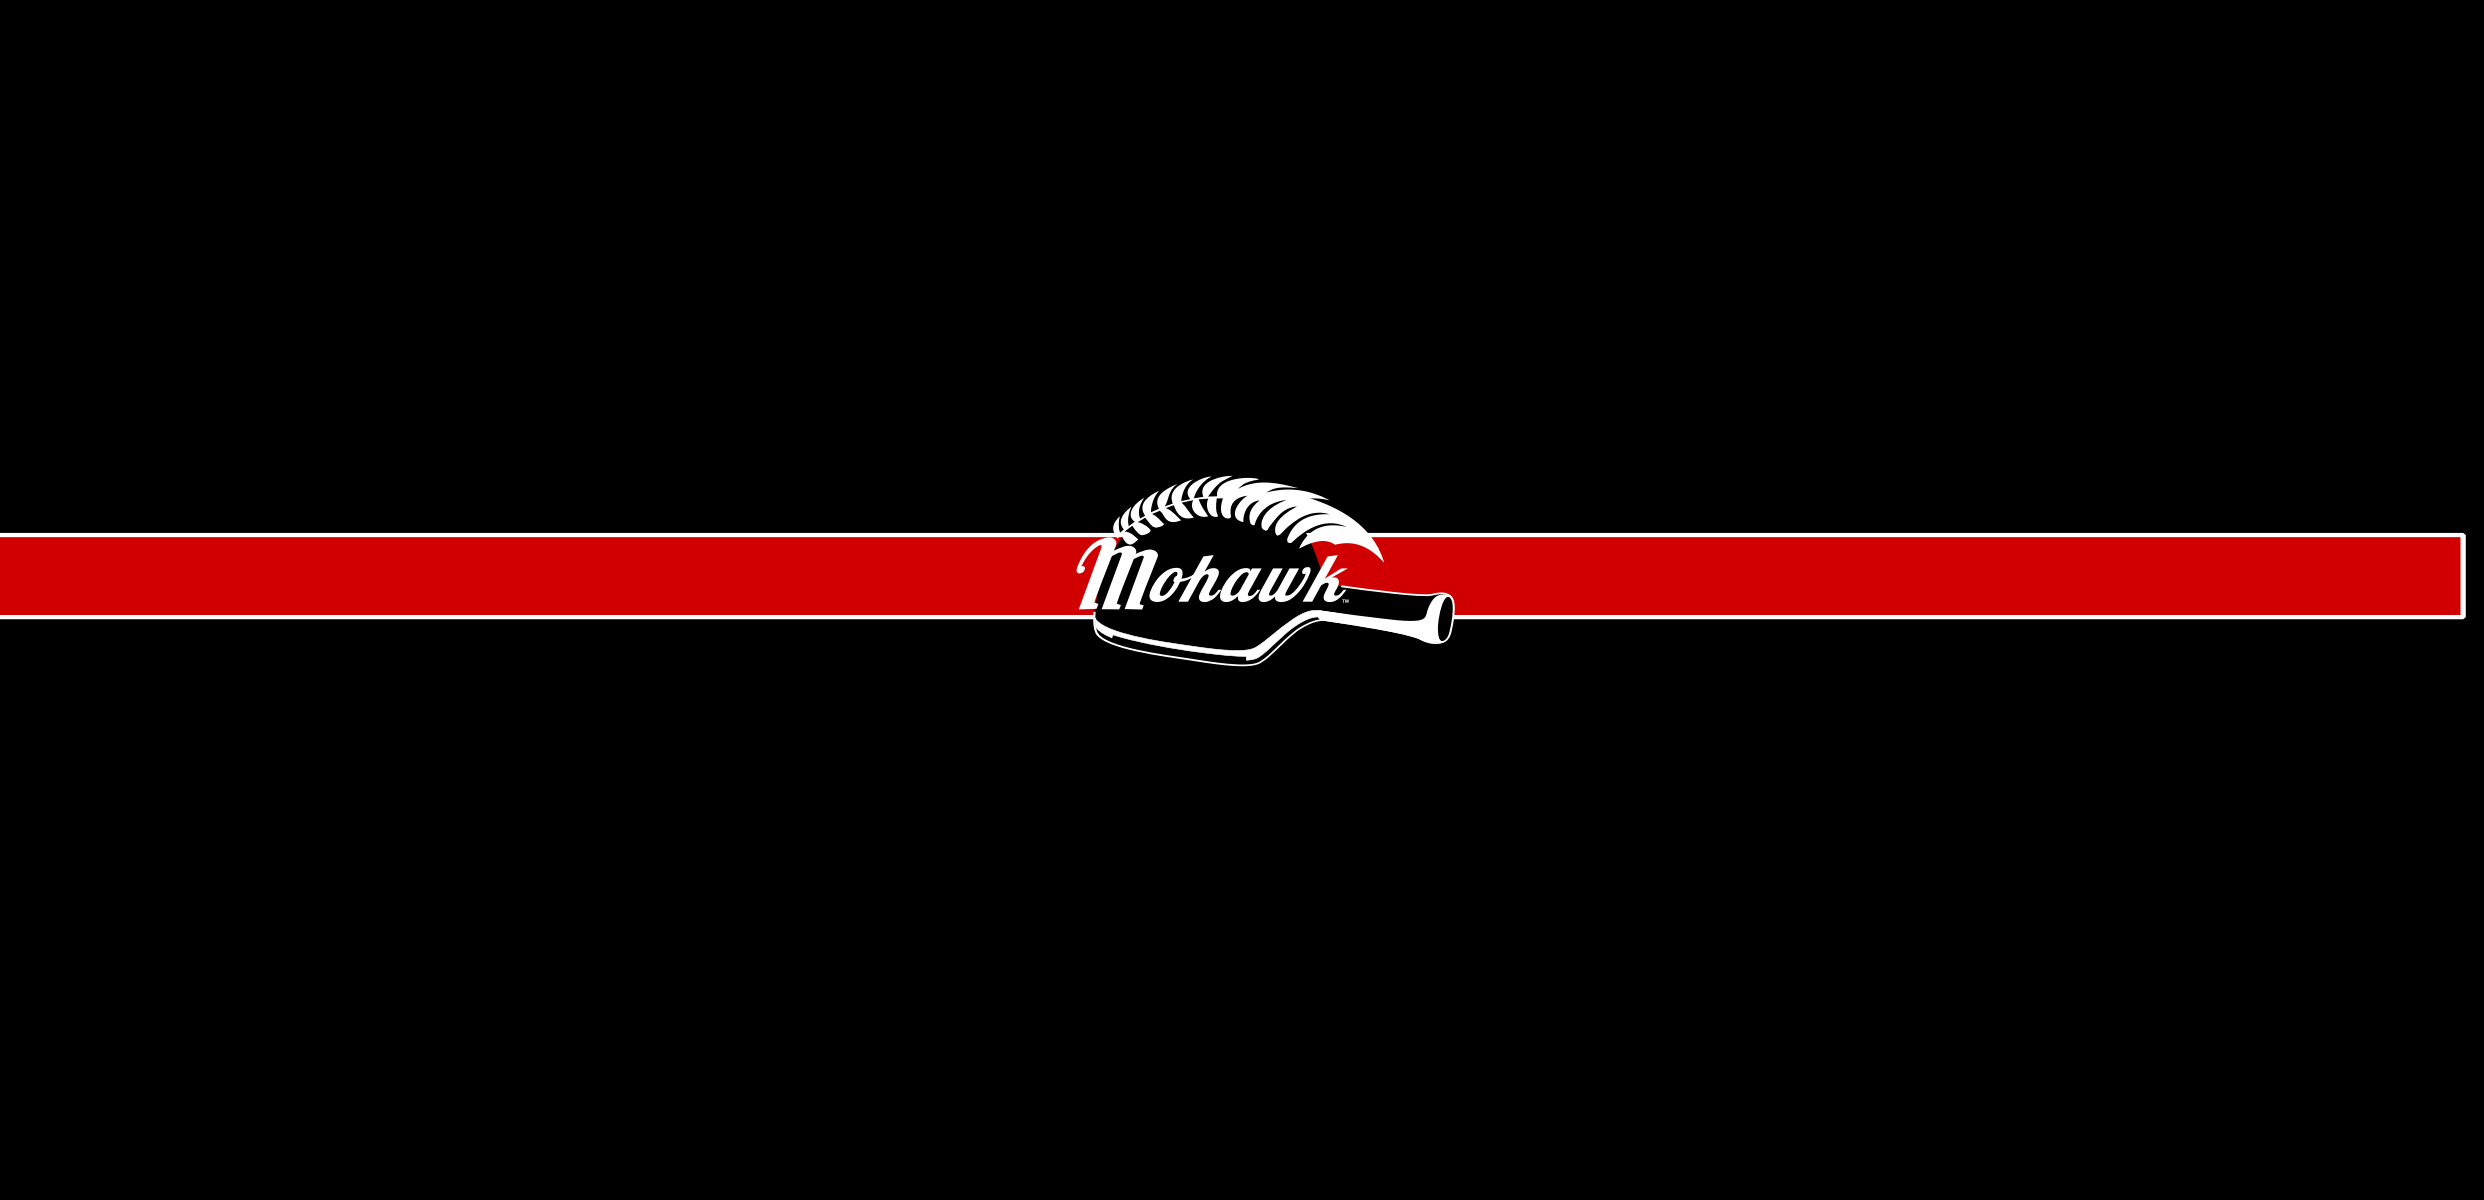
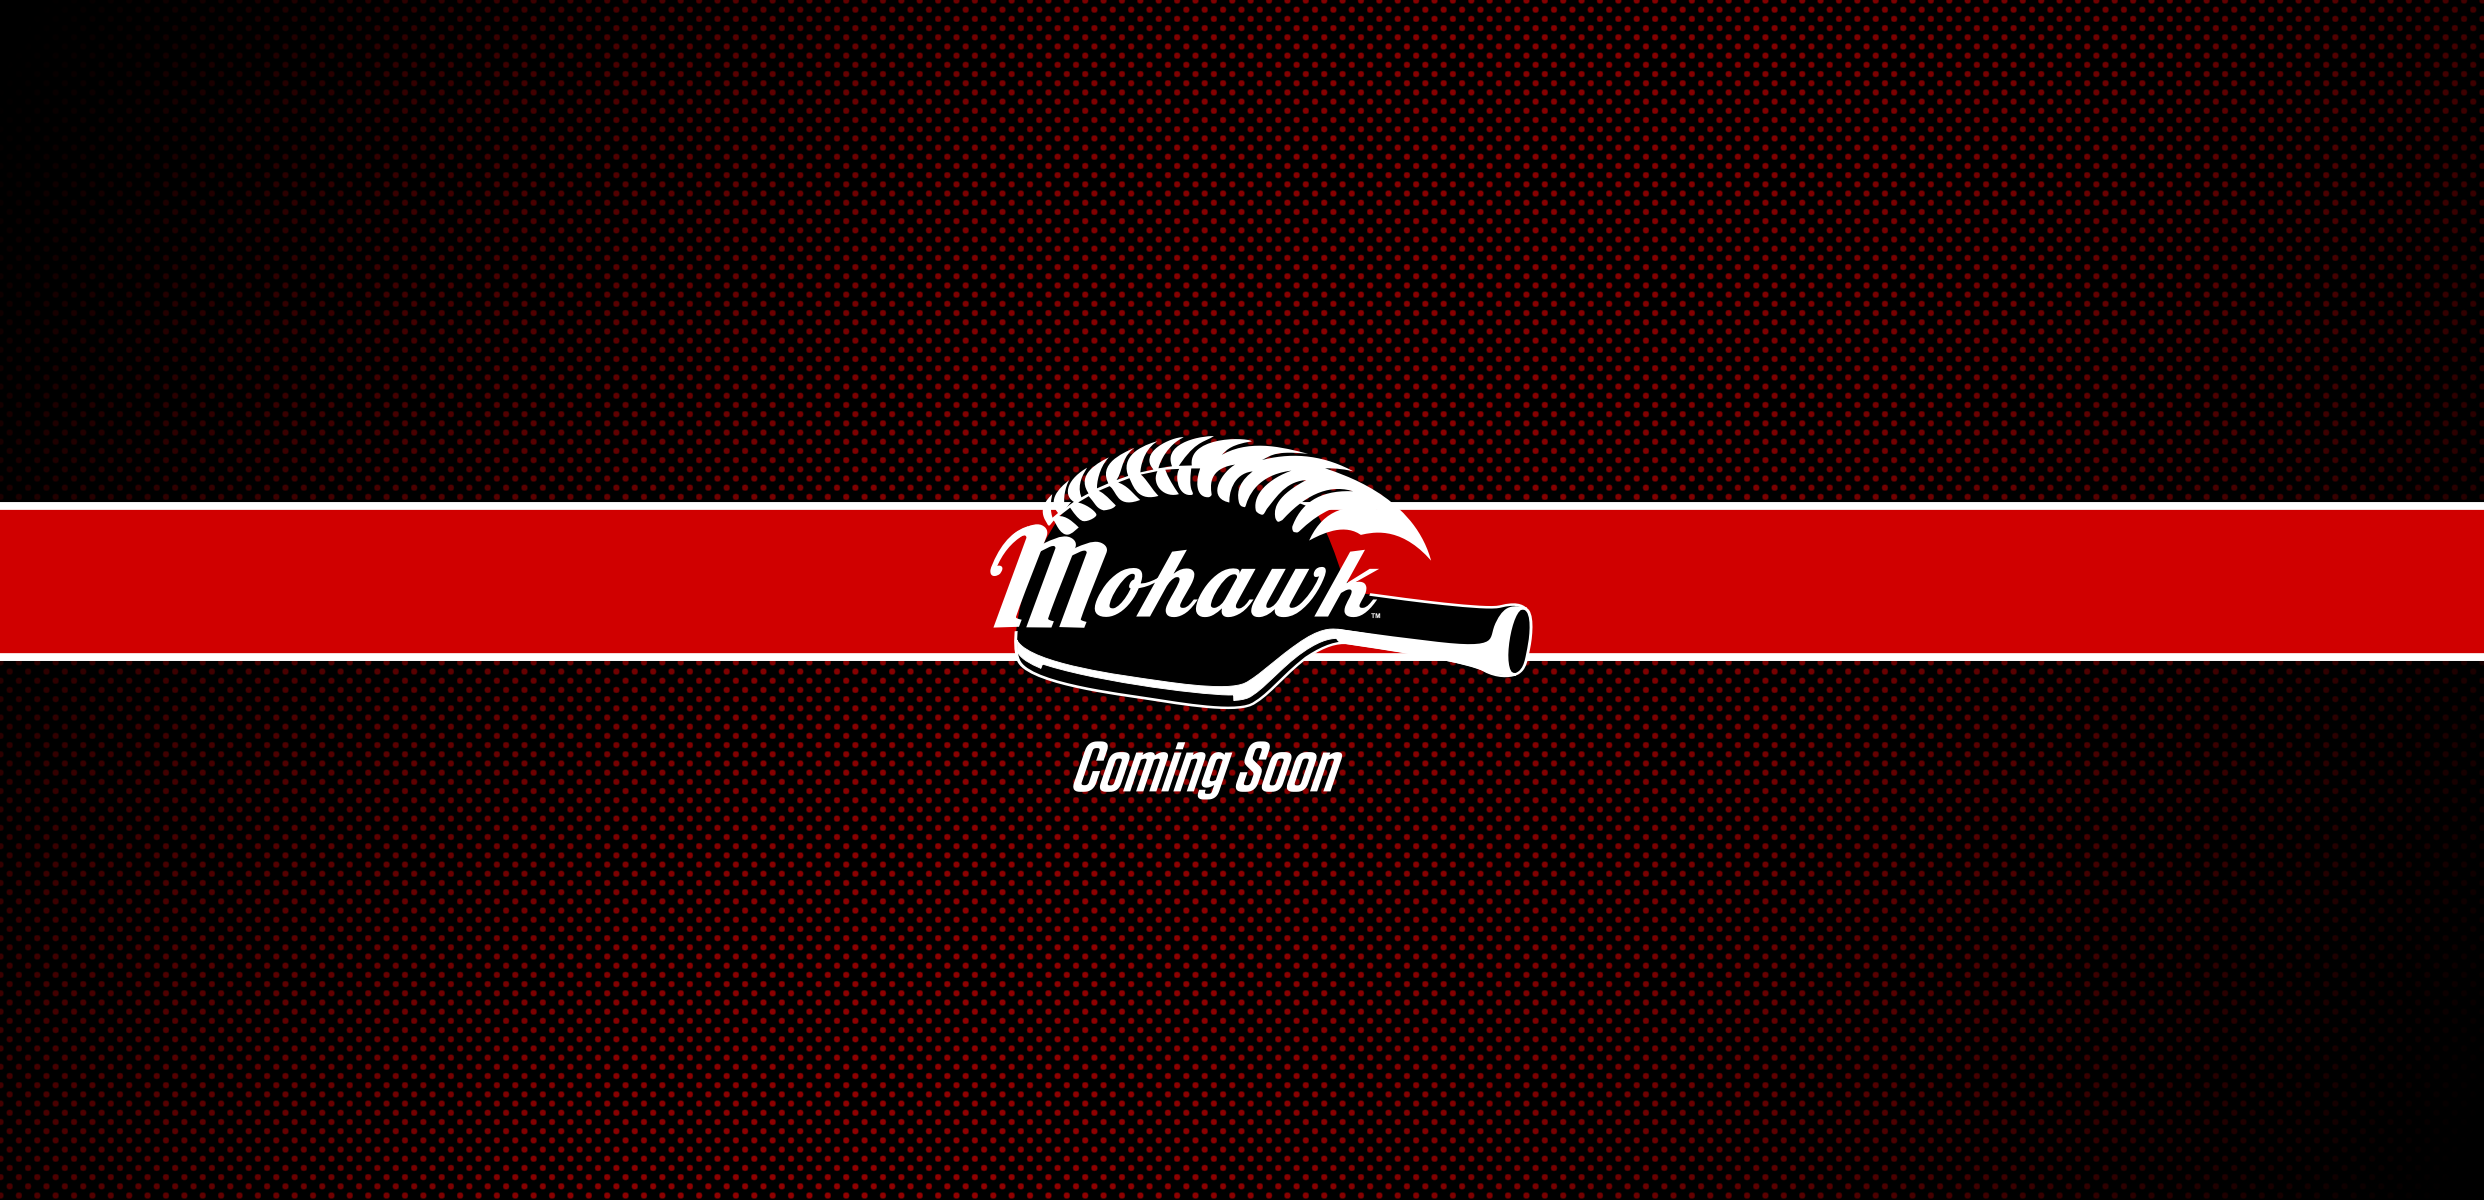
update image

Changed region(s): [[0.0, 0.0, 1.0, 1.0]]

diff --git a/index.html b/index.html
@@ -8,7 +8,7 @@
 </head>
 <body>
 <div class="container">
-    <img src="https://via.placeholder.com/800" alt="Placeholder Image">
+    <img src="assets/images/commingSoon.png" alt="Placeholder Image">
 </div>
 </body>
 </html>
